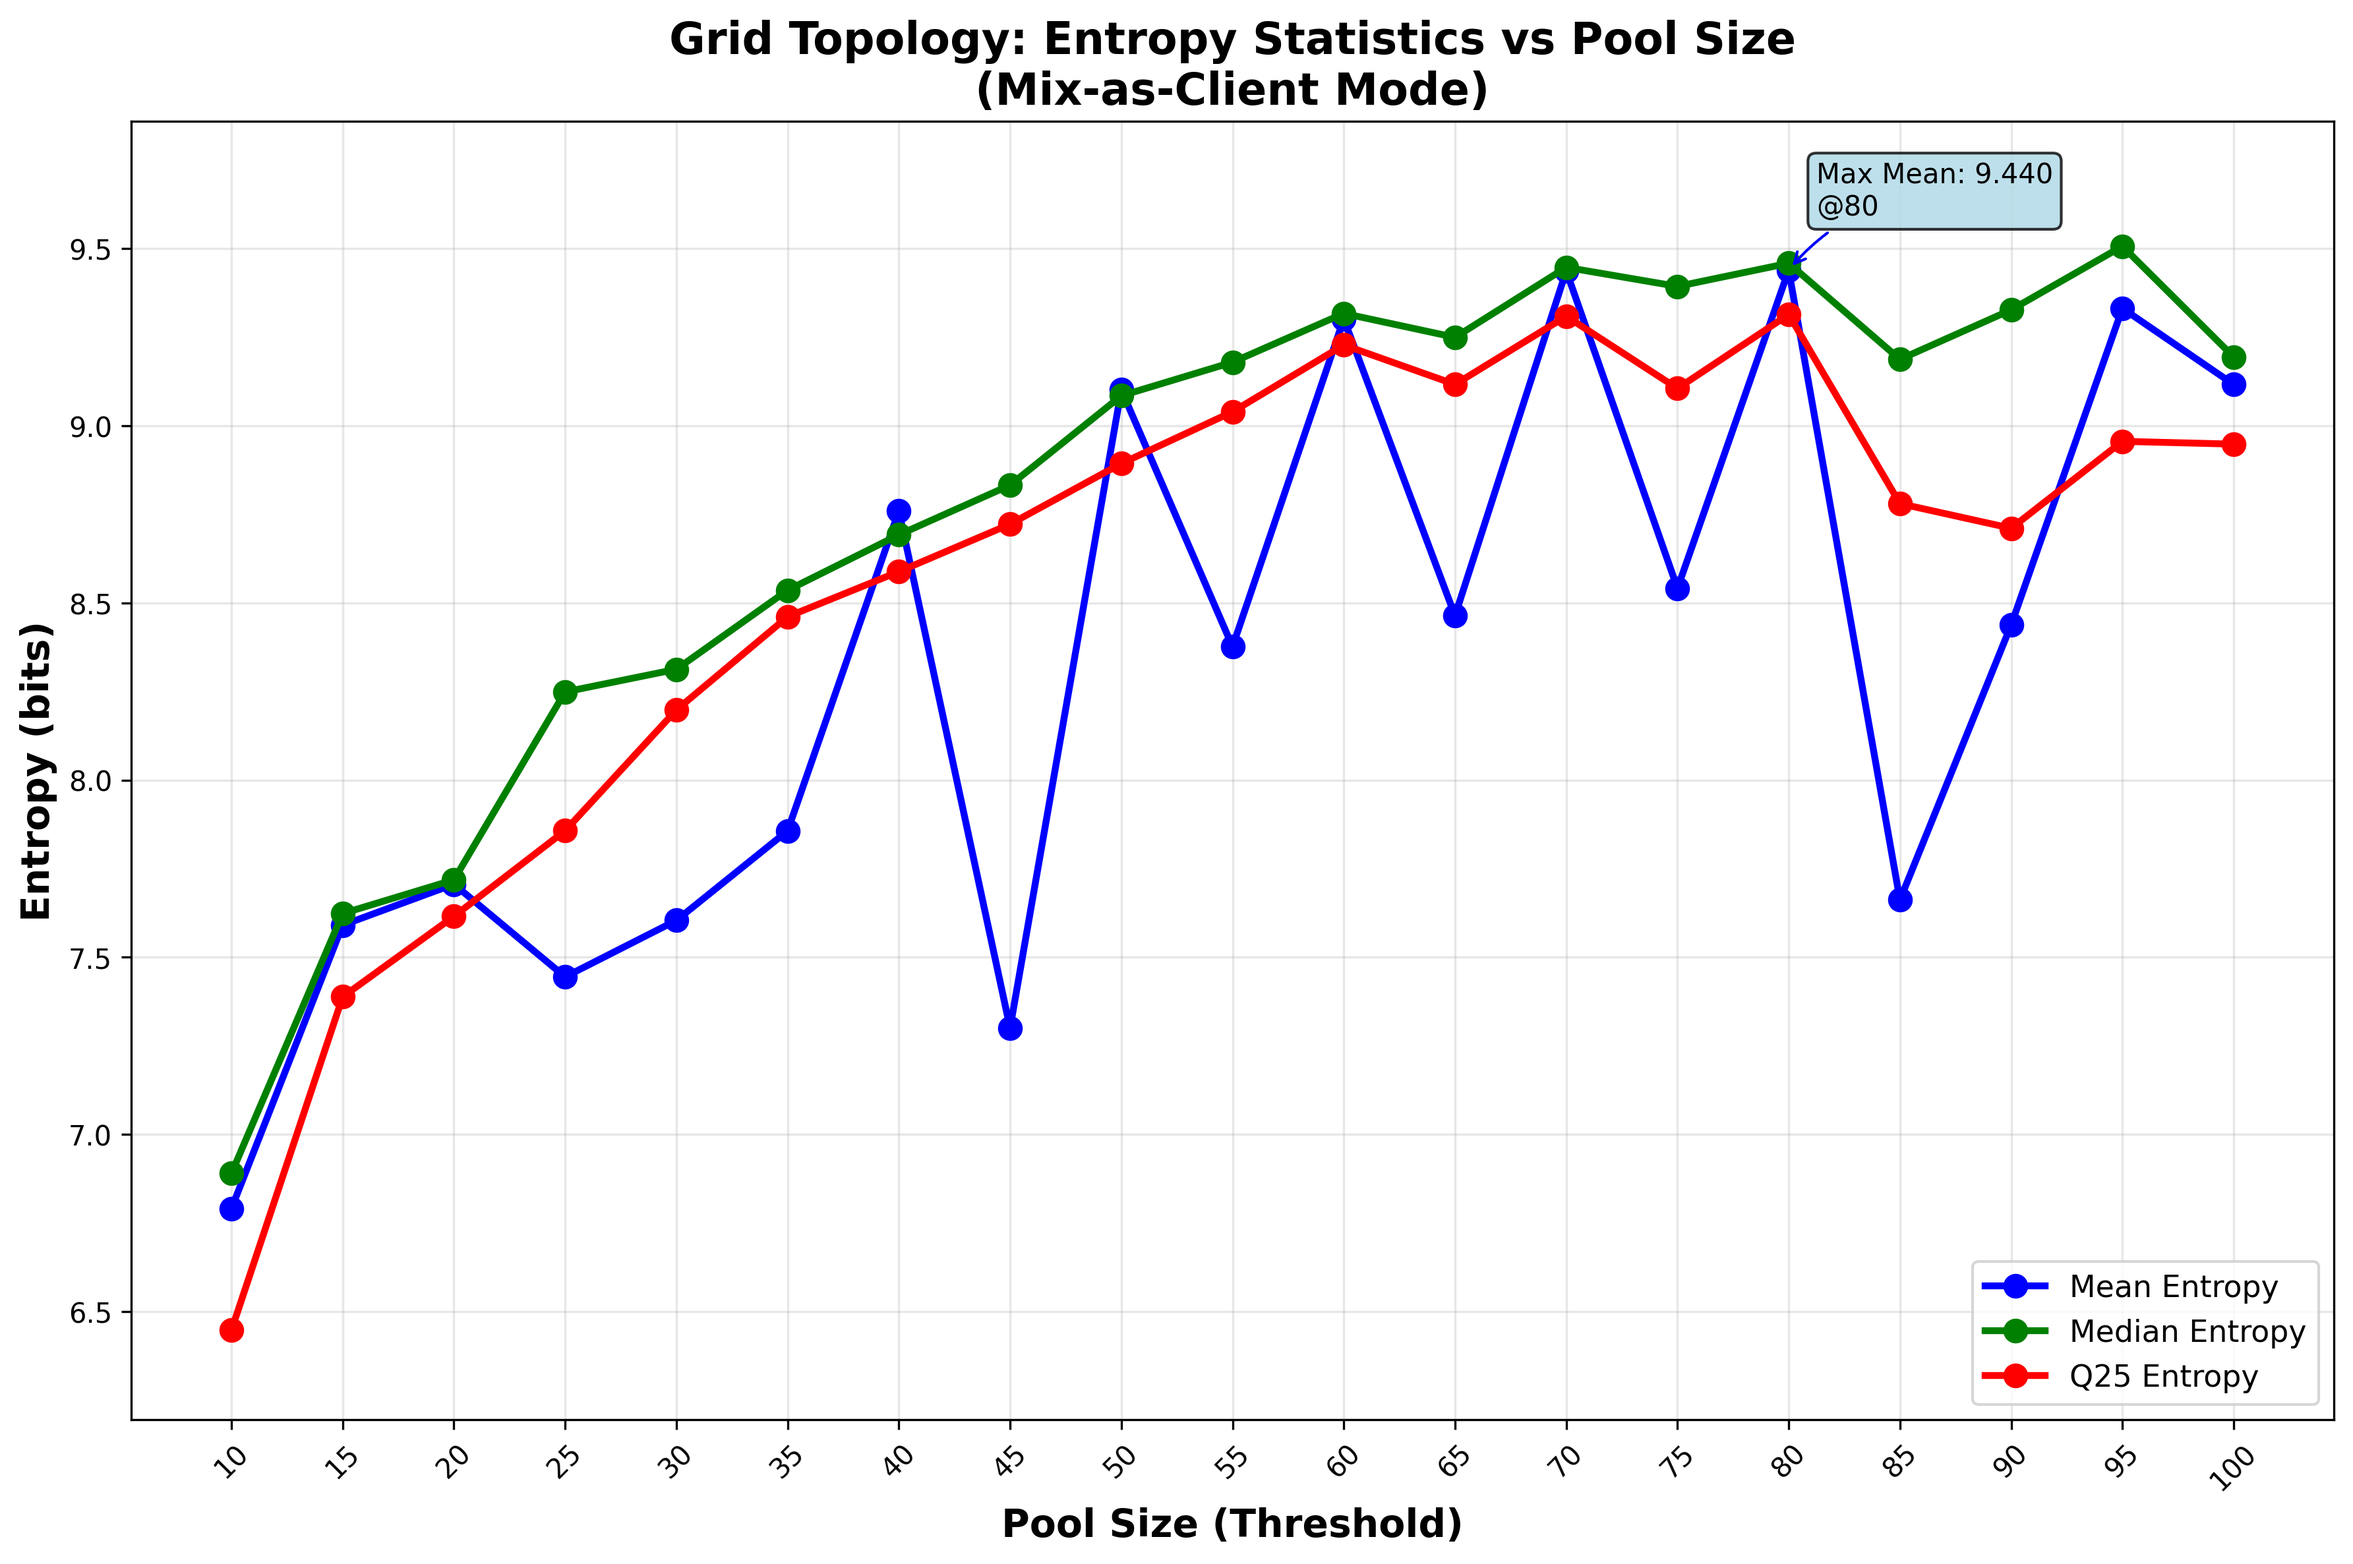
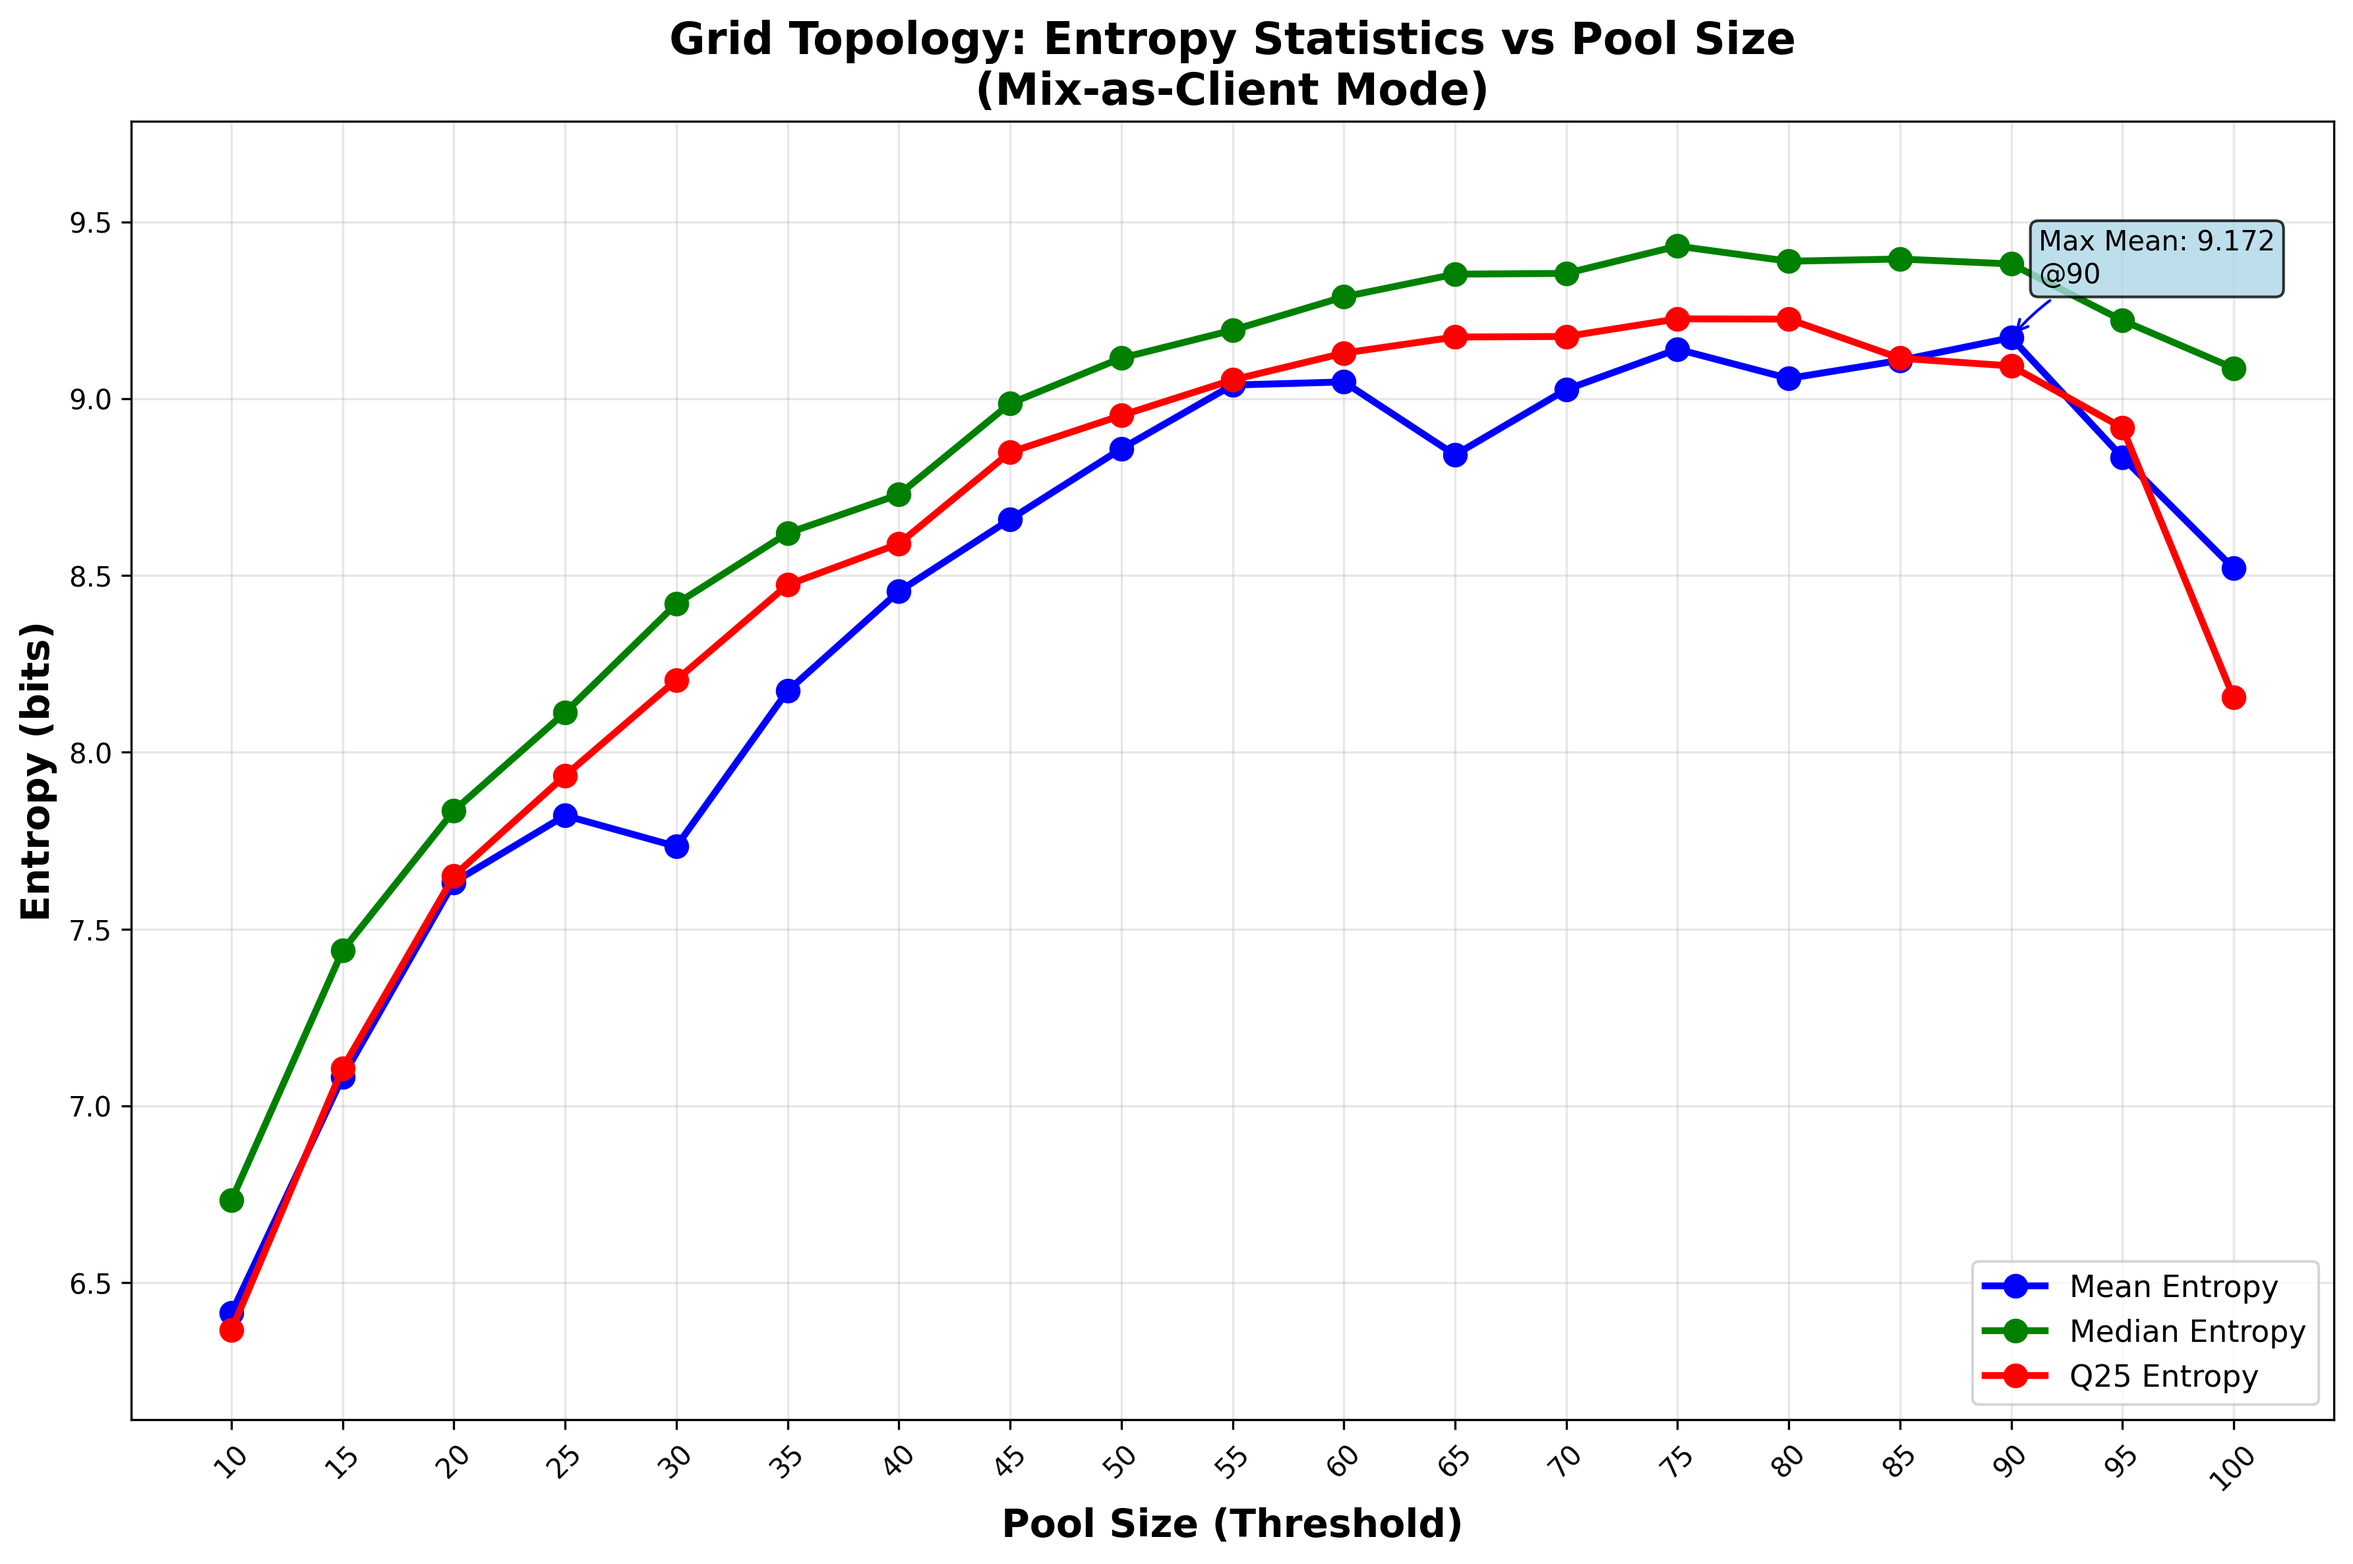
grid topology analysis with different pool sizes

diff --git a/grid_analysis_single_run.py b/grid_analysis_single_run.py
@@ -5,125 +5,93 @@ import pandas as pd
 from main import main
 import os
 import time
-import statistics
 
-def run_simulation_with_threshold(threshold_value, runs=10):
-    """Run simulation `runs` times with a given threshold and return averaged stats."""
-    print(f"[ANALYSIS] Starting simulations for threshold = {threshold_value} (runs={runs})")
+def run_simulation_with_threshold(threshold_value):
+    """Run simulation with specific threshold value"""
+    print(f"[ANALYSIS] Starting simulation with threshold = {threshold_value}")
+    
+    # Create a temporary config with the specific threshold
     config = configparser.ConfigParser()
     config.read('ConfigFile.ini')
-
-    # Ensure MIXING section exists
-    if 'MIXING' not in config:
-        config.add_section('MIXING')
+    
+    # Update threshold for this run
     config.set('MIXING', 'threshold', str(threshold_value))
-    # ensure no external clients when mixes act as clients
-    if 'DEFAULT' not in config:
-        config['DEFAULT'] = {}
-    config['DEFAULT']['n_clients'] = '0'
-
+    
+    # Create a temporary config file
     temp_config_name = f'temp_config_thresh_{threshold_value}.ini'
     with open(temp_config_name, 'w') as configfile:
         config.write(configfile)
-
-    mean_list = []
-    median_list = []
-    q25_list = []
-    sim_time_list = []
-
+    
     try:
-        # Backup and swap config once for all runs
-        if os.path.exists('ConfigFile_backup.ini'):
-            os.remove('ConfigFile_backup.ini')
+        # Temporarily replace the config file
         os.rename('ConfigFile.ini', 'ConfigFile_backup.ini')
         os.rename(temp_config_name, 'ConfigFile.ini')
-
-        for run_idx in range(1, runs + 1):
-            print(f"[RUN] threshold={threshold_value} run {run_idx}/{runs}")
-            start_run = time.time()
-            result = main(3)  # keep calling existing main; adjust if your main signature differs
-            run_time = time.time() - start_run
-
-            # robust parsing of result (support list/tuple/dict)
-            mean_entropy = 0; median_entropy = 0; q25_entropy = 0
-            if isinstance(result, dict):
-                mean_entropy = result.get('mean_entropy', 0)
-                median_entropy = result.get('median_entropy', 0)
-                q25_entropy = result.get('q25_entropy', 0)
-            elif isinstance(result, (list, tuple)) and len(result) >= 4:
-                mean_entropy = result[1] or 0
-                median_entropy = result[2] or 0
-                q25_entropy = result[3] or 0
-            else:
-                # fallback: try to extract from simulation.Log if main returns simulation object
-                try:
-                    mean_entropy = float(getattr(result, 'mean_entropy', 0))
-                    median_entropy = float(getattr(result, 'median_entropy', 0))
-                    q25_entropy = float(getattr(result, 'q25_entropy', 0))
-                except Exception:
-                    pass
-
-            mean_list.append(mean_entropy)
-            median_list.append(median_entropy)
-            q25_list.append(q25_entropy)
-            sim_time_list.append(run_time)
-
-            print(f"[RUN-RESULT] run {run_idx}: mean={mean_entropy:.4f}, median={median_entropy:.4f}, q25={q25_entropy:.4f}, time={run_time:.2f}s")
-
+        
+        # Run the simulation
+        result = main(3)  # Pass the rate parameter
+        
+        # Extract the results
+        entropy_data = {
+            'threshold': threshold_value,
+            'entropy_values': result[0] if len(result) > 0 else [],
+            'mean_entropy': result[1] if len(result) > 1 else 0,
+            'median_entropy': result[2] if len(result) > 2 else 0,
+            'q25_entropy': result[3] if len(result) > 3 else 0
+        }
+        
+        print(f"[ANALYSIS] Completed threshold = {threshold_value}, mean entropy = {entropy_data['mean_entropy']:.4f}")
+        return entropy_data
+        
     finally:
-        # restore original config
+        # Restore original config
         if os.path.exists('ConfigFile.ini'):
             os.remove('ConfigFile.ini')
         if os.path.exists('ConfigFile_backup.ini'):
             os.rename('ConfigFile_backup.ini', 'ConfigFile.ini')
-        # remove temp if still present
         if os.path.exists(temp_config_name):
             os.remove(temp_config_name)
 
-    # compute averages and stddevs
-    avg_mean = statistics.mean(mean_list) if mean_list else 0
-    avg_median = statistics.mean(median_list) if median_list else 0
-    avg_q25 = statistics.mean(q25_list) if q25_list else 0
-    avg_time = statistics.mean(sim_time_list) if sim_time_list else 0
-
-    return {
-        'threshold': threshold_value,
-        'mean_entropy': avg_mean,
-        'median_entropy': avg_median,
-        'q25_entropy': avg_q25,
-        'simulation_time': avg_time,
-        'raw_means': mean_list,
-        'raw_medians': median_list,
-        'raw_q25s': q25_list,
-        'raw_times': sim_time_list
-    }
-
-def create_entropy_statistics_plot(runs_per_threshold=10):
-    """Main analysis: run each pool size `runs_per_threshold` times and plot averaged stats."""
-    # ...existing code...
+def create_entropy_statistics_plot():
+    """Main analysis function that creates only the entropy statistics plot"""
+    
+    # Pool sizes to test
     pool_sizes = [5, 10, 15, 20, 25, 30, 35, 40, 45, 50, 55, 60, 65, 70, 75, 80, 85, 90, 95, 100]
-
+    
+    print(f"[ANALYSIS] Testing pool sizes: {pool_sizes}")
+    print(f"[ANALYSIS] Total simulations to run: {len(pool_sizes)}")
+    
+    # Store results
     results = []
+    
+    # Run simulations sequentially
     for i, threshold in enumerate(pool_sizes, 1):
-        print(f"\n[PROGRESS] Running threshold {threshold} ({i}/{len(pool_sizes)})")
+        print(f"\n[PROGRESS] Running simulation {i}/{len(pool_sizes)} (threshold={threshold})")
         start_time = time.time()
+        
         try:
-            res = run_simulation_with_threshold(threshold, runs=runs_per_threshold)
-            results.append({
-                'threshold': res['threshold'],
-                'mean_entropy': res['mean_entropy'],
-                'median_entropy': res['median_entropy'],
-                'q25_entropy': res['q25_entropy'],
-                'simulation_time': res['simulation_time']
-            })
-            print(f"[PROGRESS] threshold={threshold} avg mean={res['mean_entropy']:.4f} time={res['simulation_time']:.2f}s")
+            result = run_simulation_with_threshold(threshold)
+            result['simulation_time'] = time.time() - start_time
+            results.append(result)
+            
+            print(f"[PROGRESS] Simulation {i} completed in {result['simulation_time']:.2f} seconds")
+            
         except Exception as e:
-            print(f"[ERROR] threshold {threshold} failed: {e}")
-            results.append({'threshold': threshold,'mean_entropy':0,'median_entropy':0,'q25_entropy':0,'simulation_time':0})
-
+            print(f"[ERROR] Simulation failed for threshold {threshold}: {e}")
+            # Add empty result to maintain data structure
+            results.append({
+                'threshold': threshold,
+                'entropy_values': [],
+                'mean_entropy': 0,
+                'median_entropy': 0,
+                'q25_entropy': 0,
+                'simulation_time': 0
+            })
+    
+    # Convert to DataFrame
     df = pd.DataFrame(results)
+    
+    # Save raw data
     df.to_csv('entropy_statistics_analysis.csv', index=False)
-
     print(f"\n[ANALYSIS] Raw data saved to 'entropy_statistics_analysis.csv'")
     
     # Filter out failed simulations (mean_entropy = 0)
